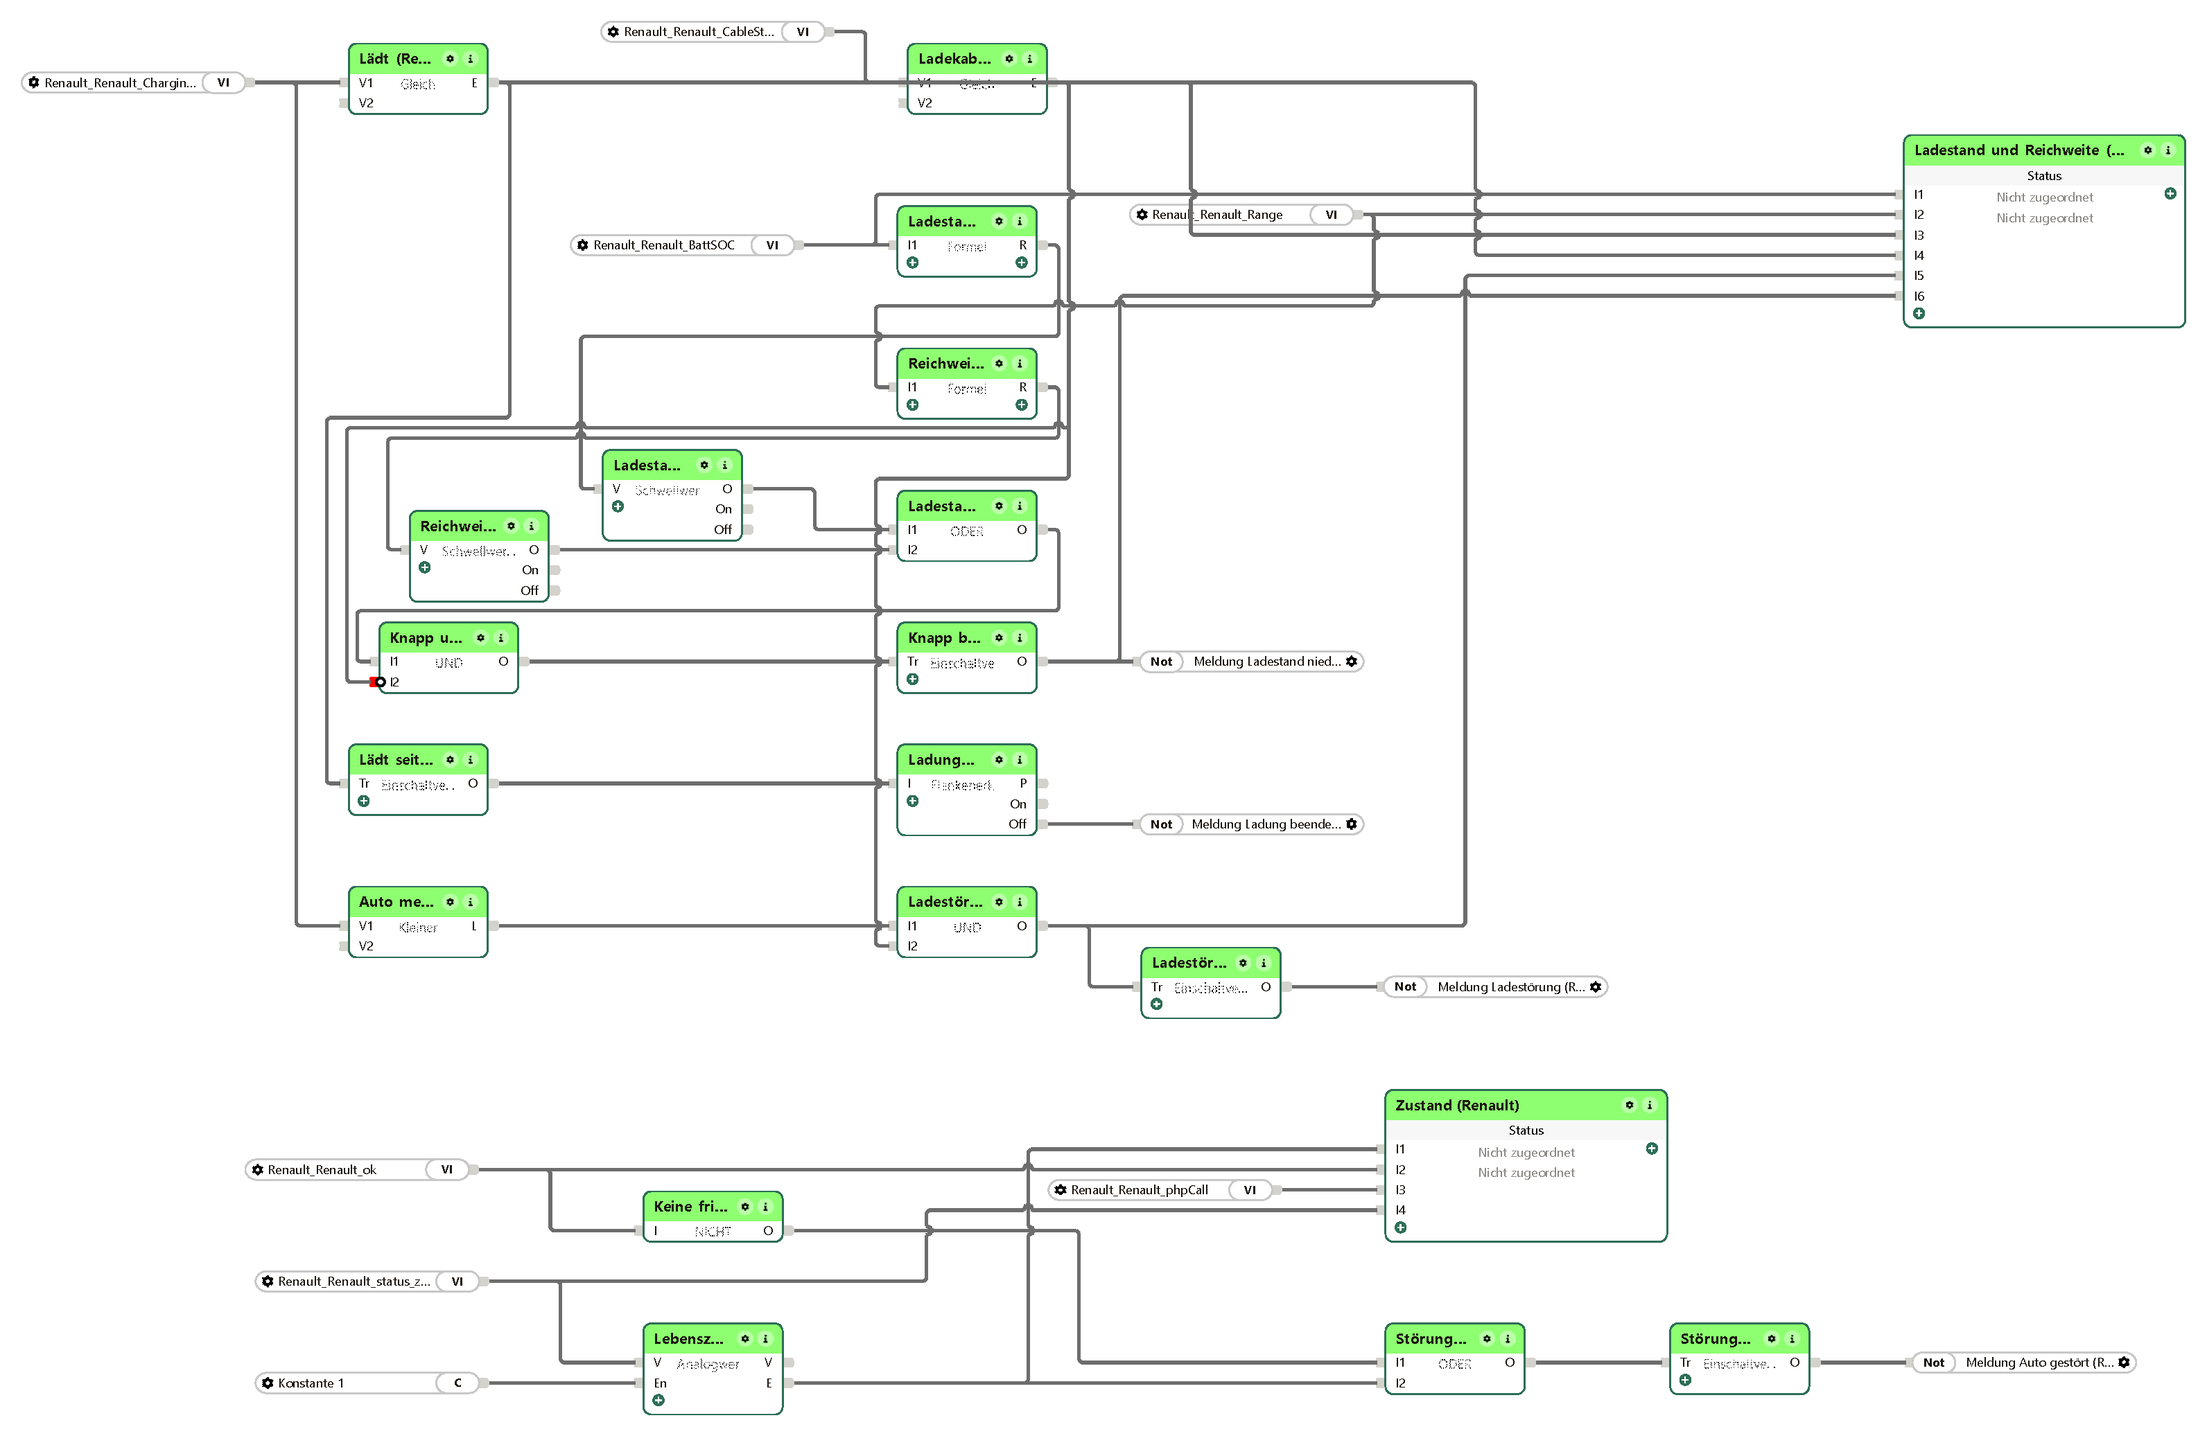
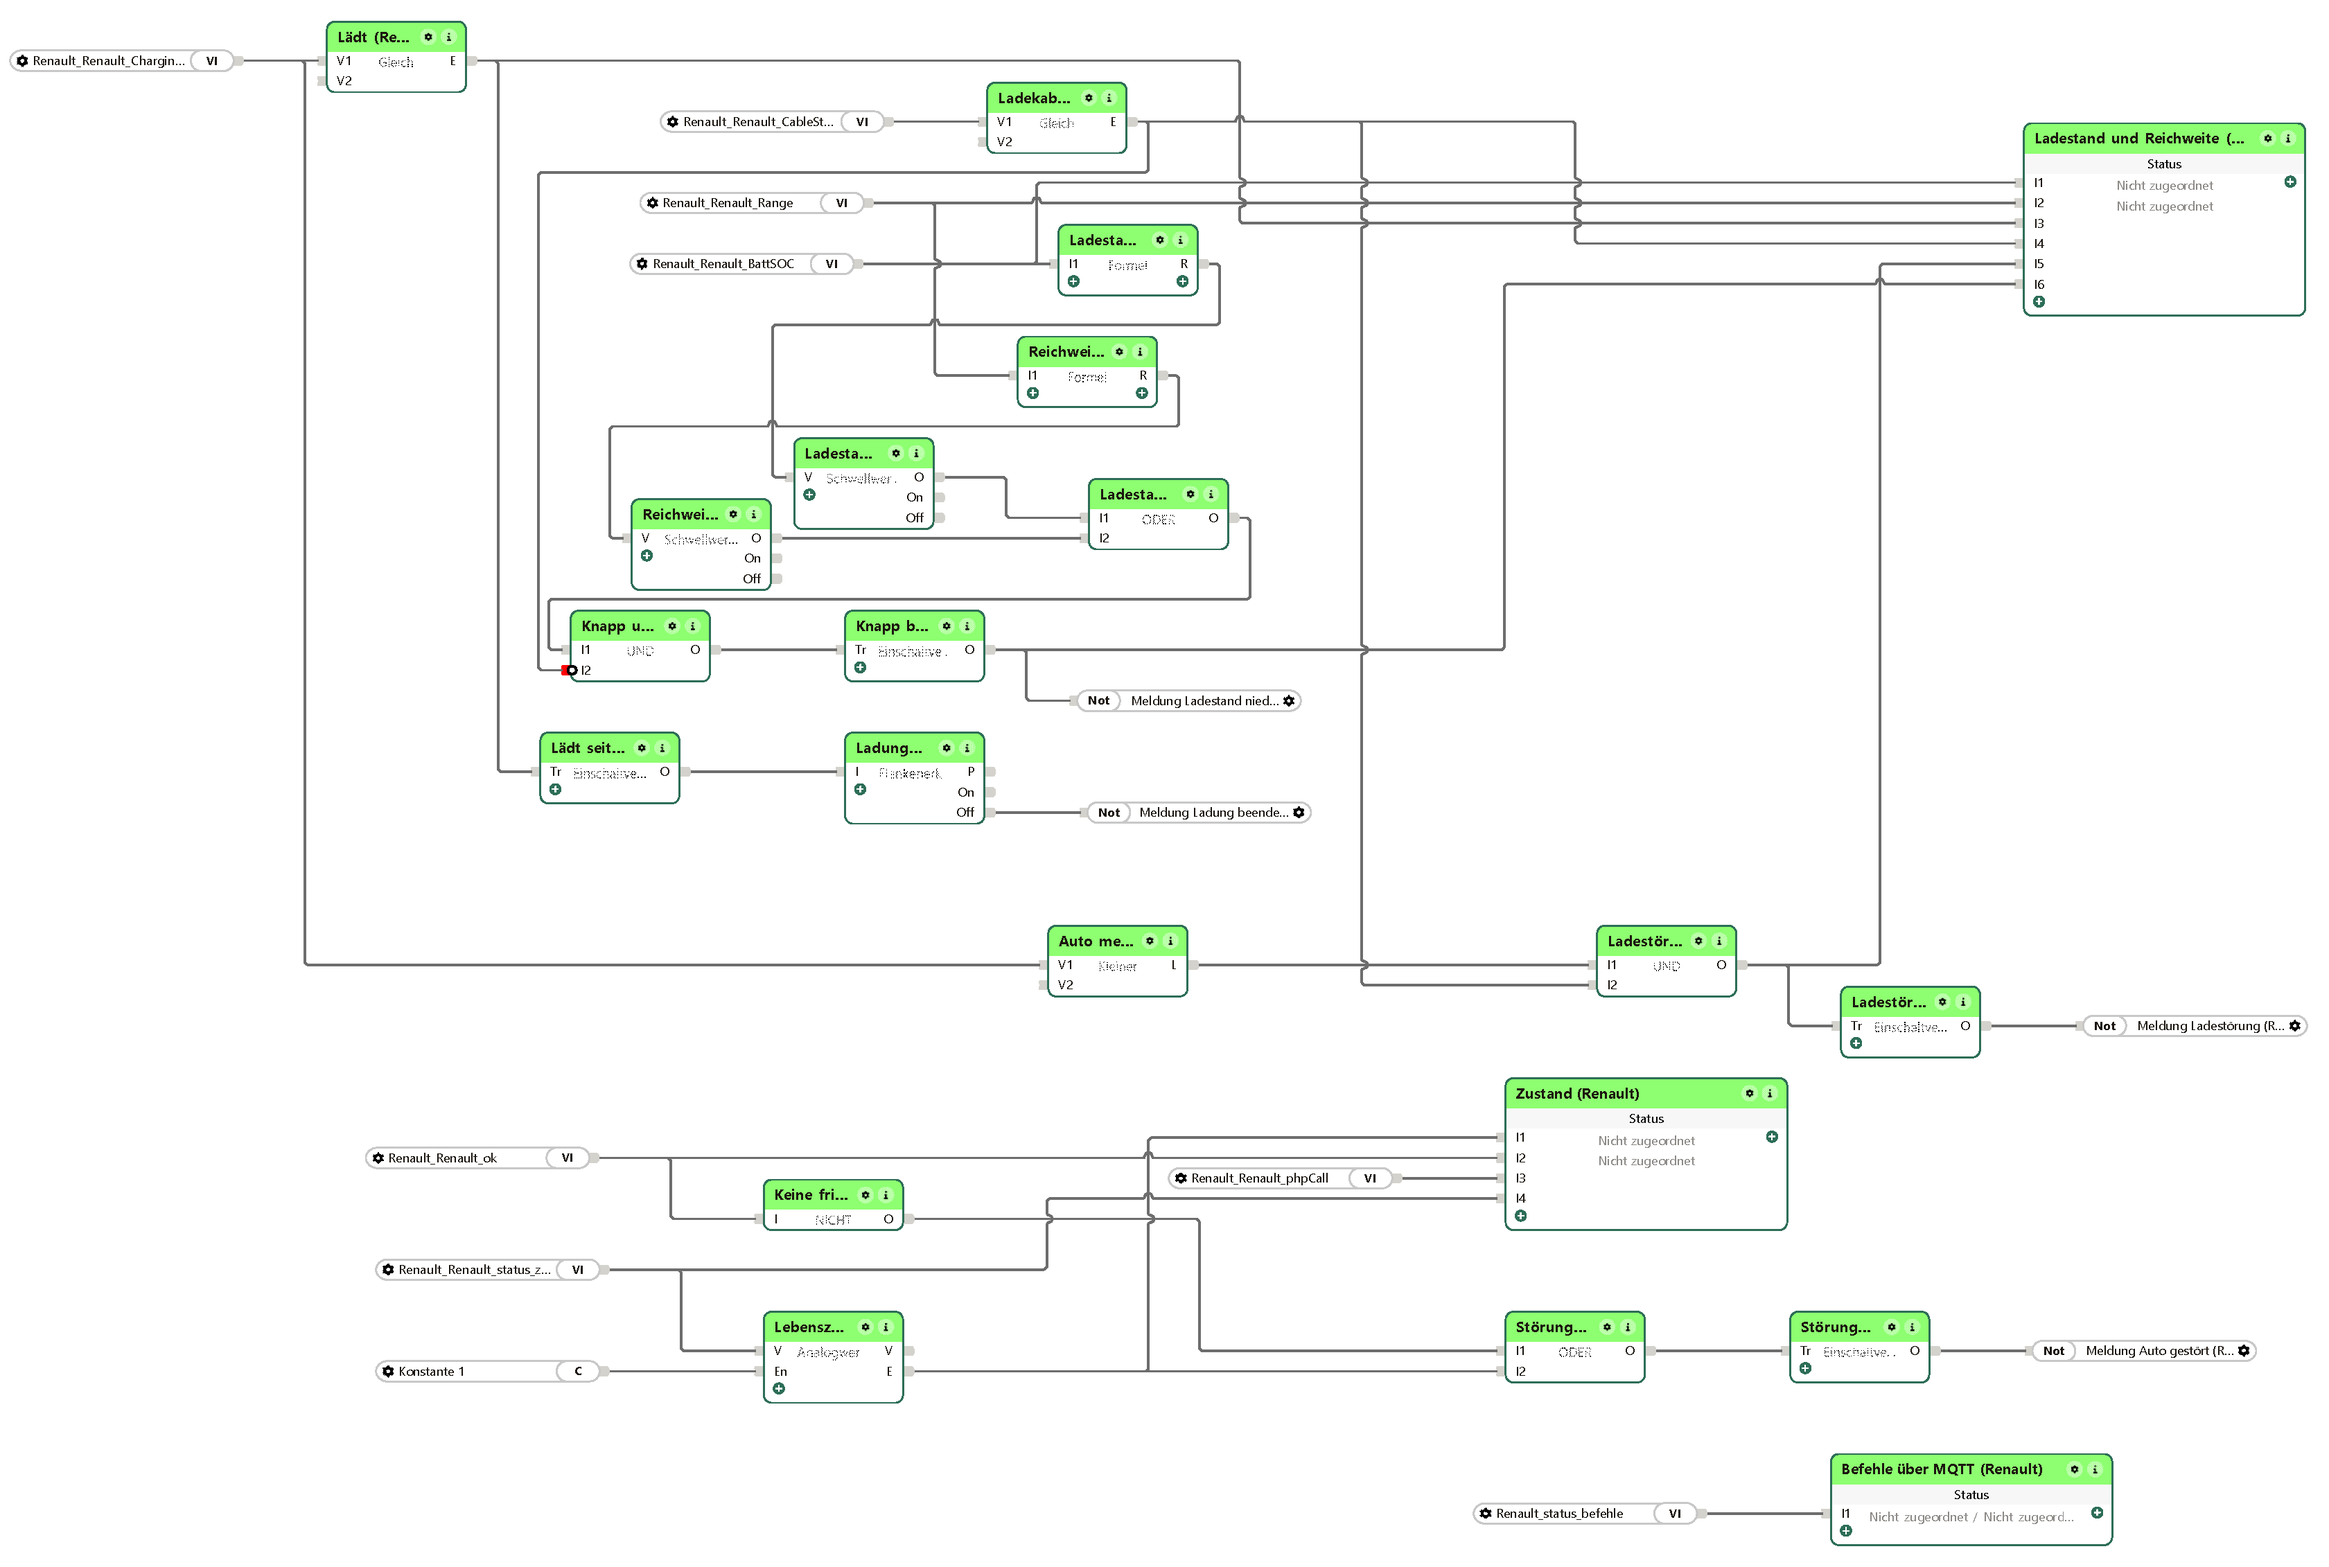
Renault-NG 2.1.21: Bilder der Einbindung erneuert (Musterprojekt 614cd0f)
Bilder der Einbindung erneuert: Die Seitenbilder zeigen jetzt die Musterprojekt-Seiten in der Hausform (MQTT-Gateway V2 und Befehlsbrücke statt der früheren HTTP-Vorlagen). Sonst keine Änderung gegen 2.1.20.

diff --git a/README.md b/README.md
@@ -1,6 +1,6 @@
 # LoxBerry-Plugin: Renault NG
 
-Version 2.1.20 · LoxBerry ab 3.0 · PHP 7.4 und 8.x · an keiner Anlage gemessen
+Version 2.1.21 · LoxBerry ab 3.0 · PHP 7.4 und 8.x · an keiner Anlage gemessen
 
 Verbindet Renault-Elektrofahrzeuge (Zoe PH1/PH2, Twingo Electric u. a.) mit dem
 Loxone Miniserver – über den LoxBerry. Batteriestand, Reichweite, Ladestatus,
@@ -13,6 +13,10 @@ das seinerseits auf [ZoePHP](https://github.com/db-EV/ZoePHP) von db-EV
 aufbaut. Apache-Lizenz 2.0; die Liste der Änderungen steht in `NOTICE`.
 
 ---
+
+## Neu in 2.1.21
+
+Bilder der Einbindung erneuert: Die Seitenbilder zeigen jetzt die Musterprojekt-Seiten in der Hausform (MQTT-Gateway V2 und Befehlsbrücke statt der früheren HTTP-Vorlagen). Sonst keine Änderung gegen 2.1.20.
 
 ## Neu in 2.1.20
 
